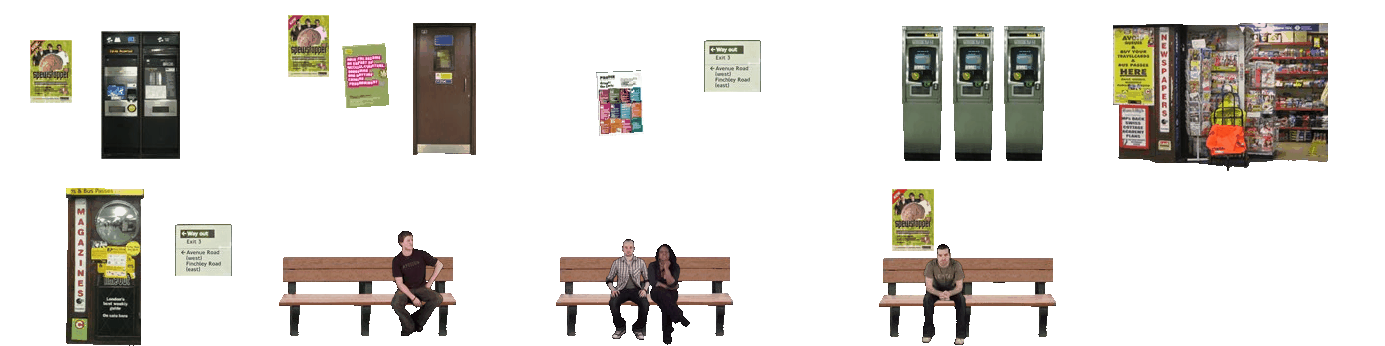
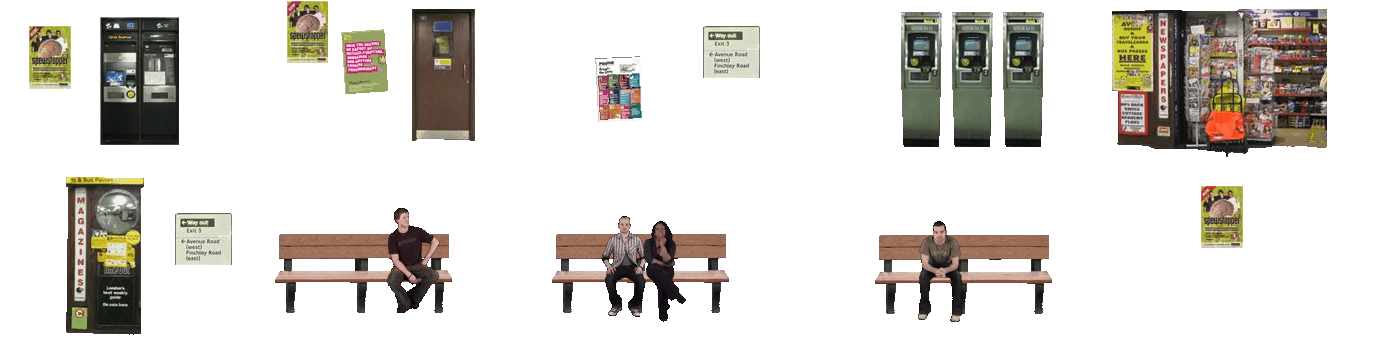
updates

diff --git a/js/GameScene.js b/js/GameScene.js
@@ -127,8 +127,8 @@ export class GameScene extends Phaser.Scene {
       frameHeight: 173
     });
     this.load.spritesheet("obstacle_sprites_level_2", "level_2_obstacles.png", {
-      frameWidth: 54,
-      frameHeight: 127
+      frameWidth: 150,
+      frameHeight: 240
     });
 
   }
@@ -260,12 +260,11 @@ export class GameScene extends Phaser.Scene {
     this.distanceCovered = 0;
     this.levelComplete = false;
     const floorKey = FLOOR_TEXTURES['Level' + this.level];
-    this.floor = this.add.plane(this.w / 2, 336, floorKey);
-    this.floor.setGridSize(16, 16);
-    this.floor.uvScale(16, 16);
-    this.floor.viewPosition.z = 1.6;
-    this.floor.rotateX = 285;
-    this.floor.setScale(1.6);
+
+    this.floor = this.add.plane(this.w / 2, 320, floorKey);
+    this.floor.viewPosition.z = .8;
+    this.floor.rotateX = 300;
+    this.floor.setScale(.70);
     this.wall = this.add.sprite(0, 0, "level_" + this.level + "_wall").setOrigin(0, 0).setScale(1.5);
     this.wall2 = this.add.sprite(1000, 0, "level_" + this.level + "_wall").setOrigin(0, 0).setScale(1.5);
     this.resetExitWall(this.w, this.h);
@@ -286,6 +285,7 @@ export class GameScene extends Phaser.Scene {
     );
 
     this.cursors = this.input.keyboard.createCursorKeys();
+
     this.pukerStanding = this.add.image(0, 0, "puker standing").setOrigin(0.5, 1).setScale(.9).setDepth(1200).setVisible(false);
     if (this.level === 1) {
       this.bouncer = this.add.image(0, 0, "bouncer")
@@ -307,7 +307,7 @@ export class GameScene extends Phaser.Scene {
 
     this.backgroundImage = this.add
       .sprite(this.w + OBJECT_START_X_OFFSET, this.backgroundItemsY, "background_items_level_" + this.level);
-    const frame = Phaser.Math.Between(0, this.backgroundImage.frames);
+    const frame = Phaser.Math.Between(0, this.backgroundImage.texture.getFrameNames().length - 1);
     this.backgroundImage.setFrame(frame);
 
     this.backgroundItems.add(this.backgroundImage);
@@ -387,6 +387,8 @@ export class GameScene extends Phaser.Scene {
     this.score += 1000 * this.level;
     this.level_complete_title.setVisible(true);
     this.time.delayedCall(5000, () => {
+      this.pukerPause = false;
+      this.pukerSpeed = 1;
       this.levelComplete = false;
       this.gameState = GAME_STATE.LEVEL;
       this.level_complete_title.setVisible(false);
@@ -855,7 +857,7 @@ export class GameScene extends Phaser.Scene {
     else this.wall2.x = 1000;
 
     if (!this.pukerPause) {
-      this.floor.uvScroll(0.012 + this.level * 0.002, 0);
+      this.floor.uvScroll(0.0008, 0);
     }
   }
 
@@ -893,7 +895,7 @@ export class GameScene extends Phaser.Scene {
     if (++this.backgroundItemsTimer > this.backgroundItemsTimerMax) {
       const image = this.add
         .sprite(this.w + OBJECT_START_X_OFFSET, this.backgroundItemsY, "background_items_level_" + this.level);
-      const frame = Phaser.Math.Between(0, image.frames);
+      const frame = Phaser.Math.Between(0, image.texture.getFrameNames().length - 1);
       image.setFrame(frame);
 
       this.backgroundItems.add(image);
@@ -910,7 +912,6 @@ export class GameScene extends Phaser.Scene {
 
   checkPukerMove() {
     if (this.pukerPause || !this.puker) return;
-
     if (this.cursors.up.isDown && this.puker.y > PUKER_MIN_Y) {
       this.puker.y--;
       this.pukerStates.getChildren().forEach((element) => {
@@ -990,11 +991,10 @@ export class GameScene extends Phaser.Scene {
       WALKER_SPRITES[walkerIndex].name
     );
 
-    newWalker.setScale(-1, 0.8);
+    newWalker.setScale(-1, .8);
     newWalker.anims.play(WALKER_SPRITES[walkerIndex].name);
 
     this.walkers.add(newWalker);
-
     this.walkersTimer = 0;
     this.walkersTimerMax = Phaser.Math.Between(this.timeMin, this.timeMax + 500);
   }
@@ -1006,8 +1006,7 @@ export class GameScene extends Phaser.Scene {
       .sprite(this.w + OBJECT_START_X_OFFSET, obstacleY, "obstacle_sprites_level_" + this.level)
       .setOrigin(0.5, 1)
       .setDepth(obstacleY);
-    const frame = Phaser.Math.Between(0, image.frames);
-
+    const frame = Phaser.Math.Between(0, image.texture.getFrameNames().length - 1);
     image.setFrame(frame);
 
     this.setShading(image);

diff --git a/floor/index.html b/floor/index.html
@@ -24,16 +24,14 @@
             }
 
             preload() {
-                this.load.image("floor1", "./floor 1.png");
-                this.load.image("floor2", "./floor 2.png");
-                this.load.image("floor3", "./floor 3.png");
+                this.load.image("floor", "./floor.png");
             }
             create() {
                 this.cameras.main.setBackgroundColor("#050505");
 
                 this.cursors = this.input.keyboard.createCursorKeys();
 
-                const floorKey = `floor3`;
+                const floorKey = `floor`;
                 const w = this.game.config.width;
                 const h = this.game.config.height;
                 this.floor = this.add.plane(w / 2, 300, floorKey);
@@ -44,7 +42,7 @@
             }
 
             update() {
-                this.floor.uvScroll(0.002, 0);
+                this.floor.uvScroll(0.001, 0);
             }
         }
         const config = {

diff --git a/js/main.js b/js/main.js
@@ -9,6 +9,7 @@ new Phaser.Game({
     type: Phaser.AUTO,
     width: W,
     height: H,
+    backgroundColor: '#4488aa',
     physics: {
         default: "arcade",
         arcade: { debug: true }
